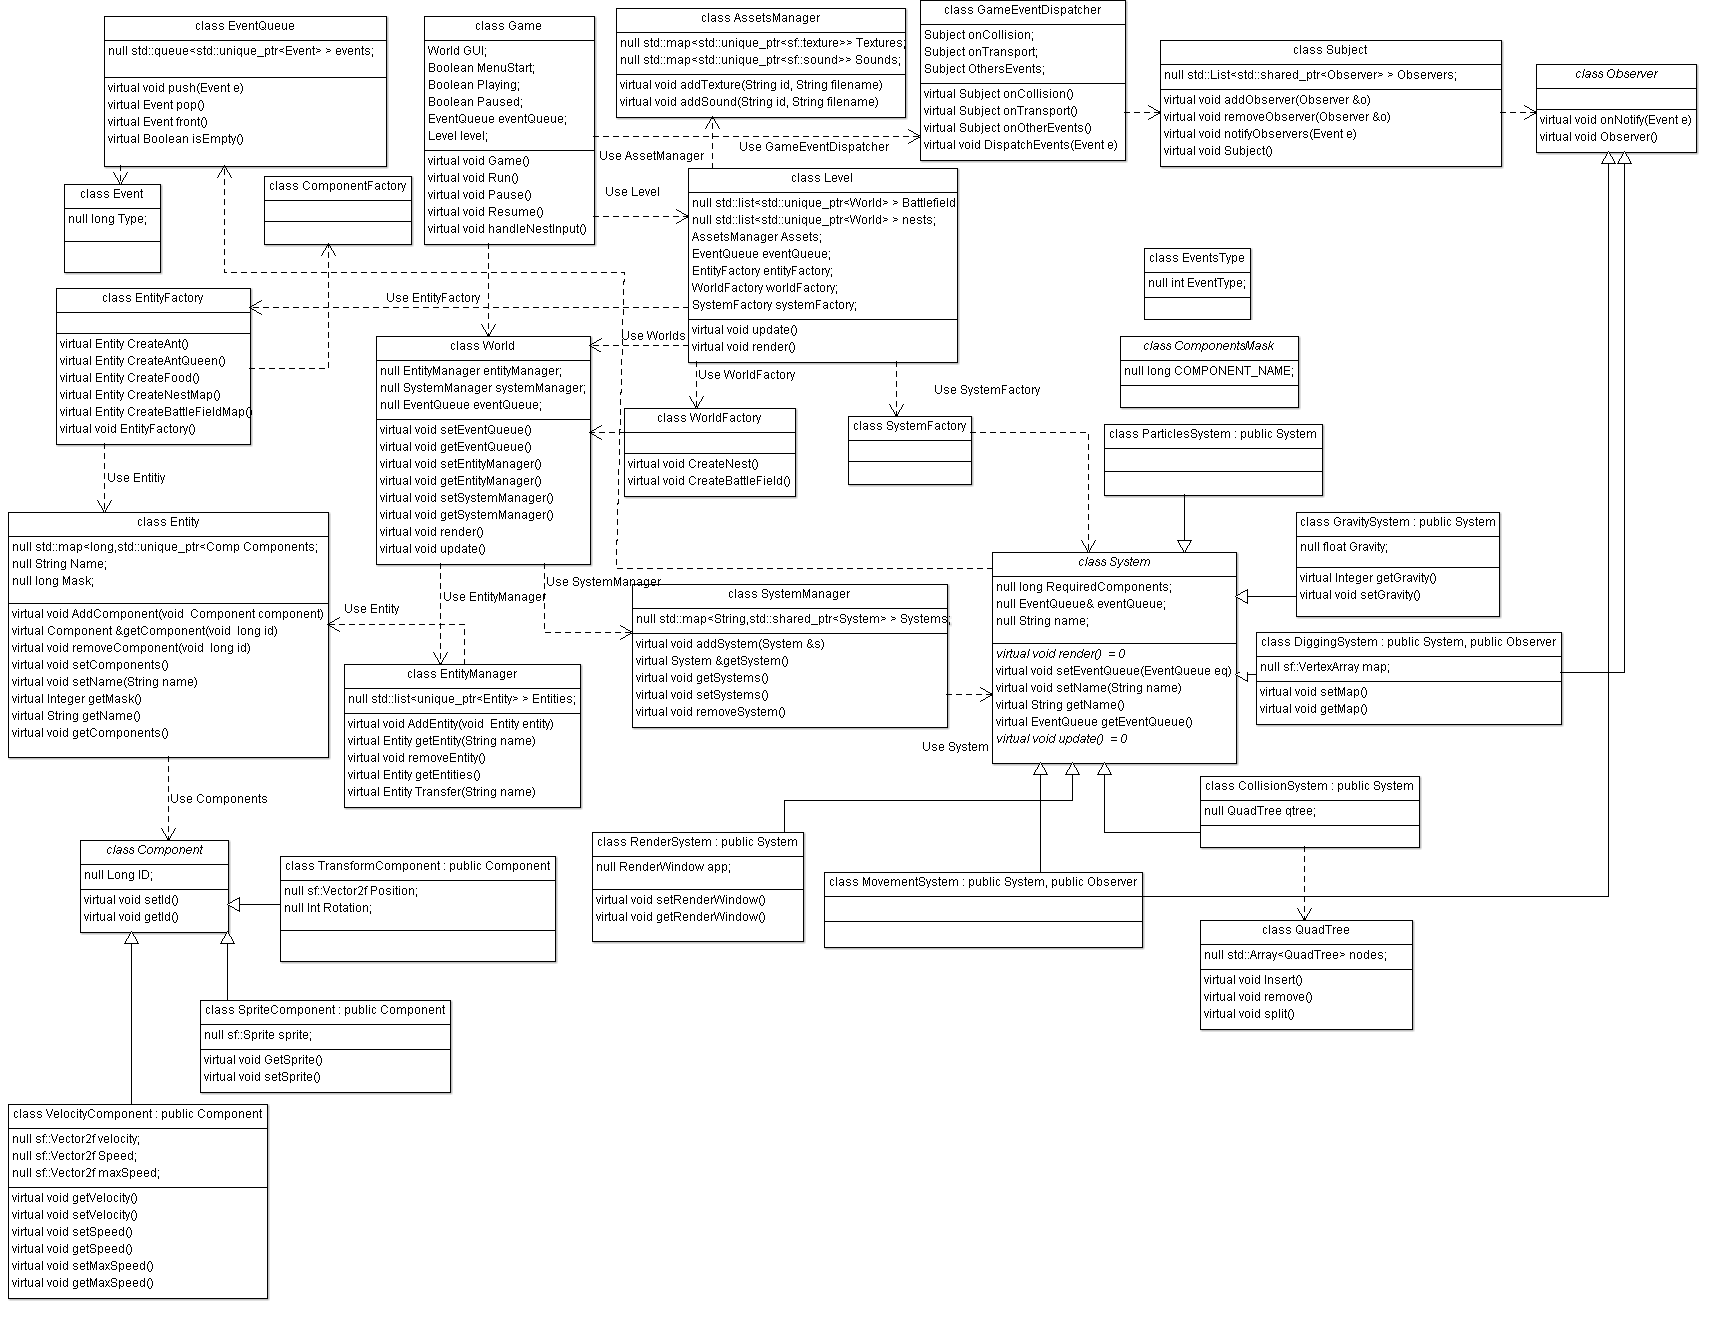
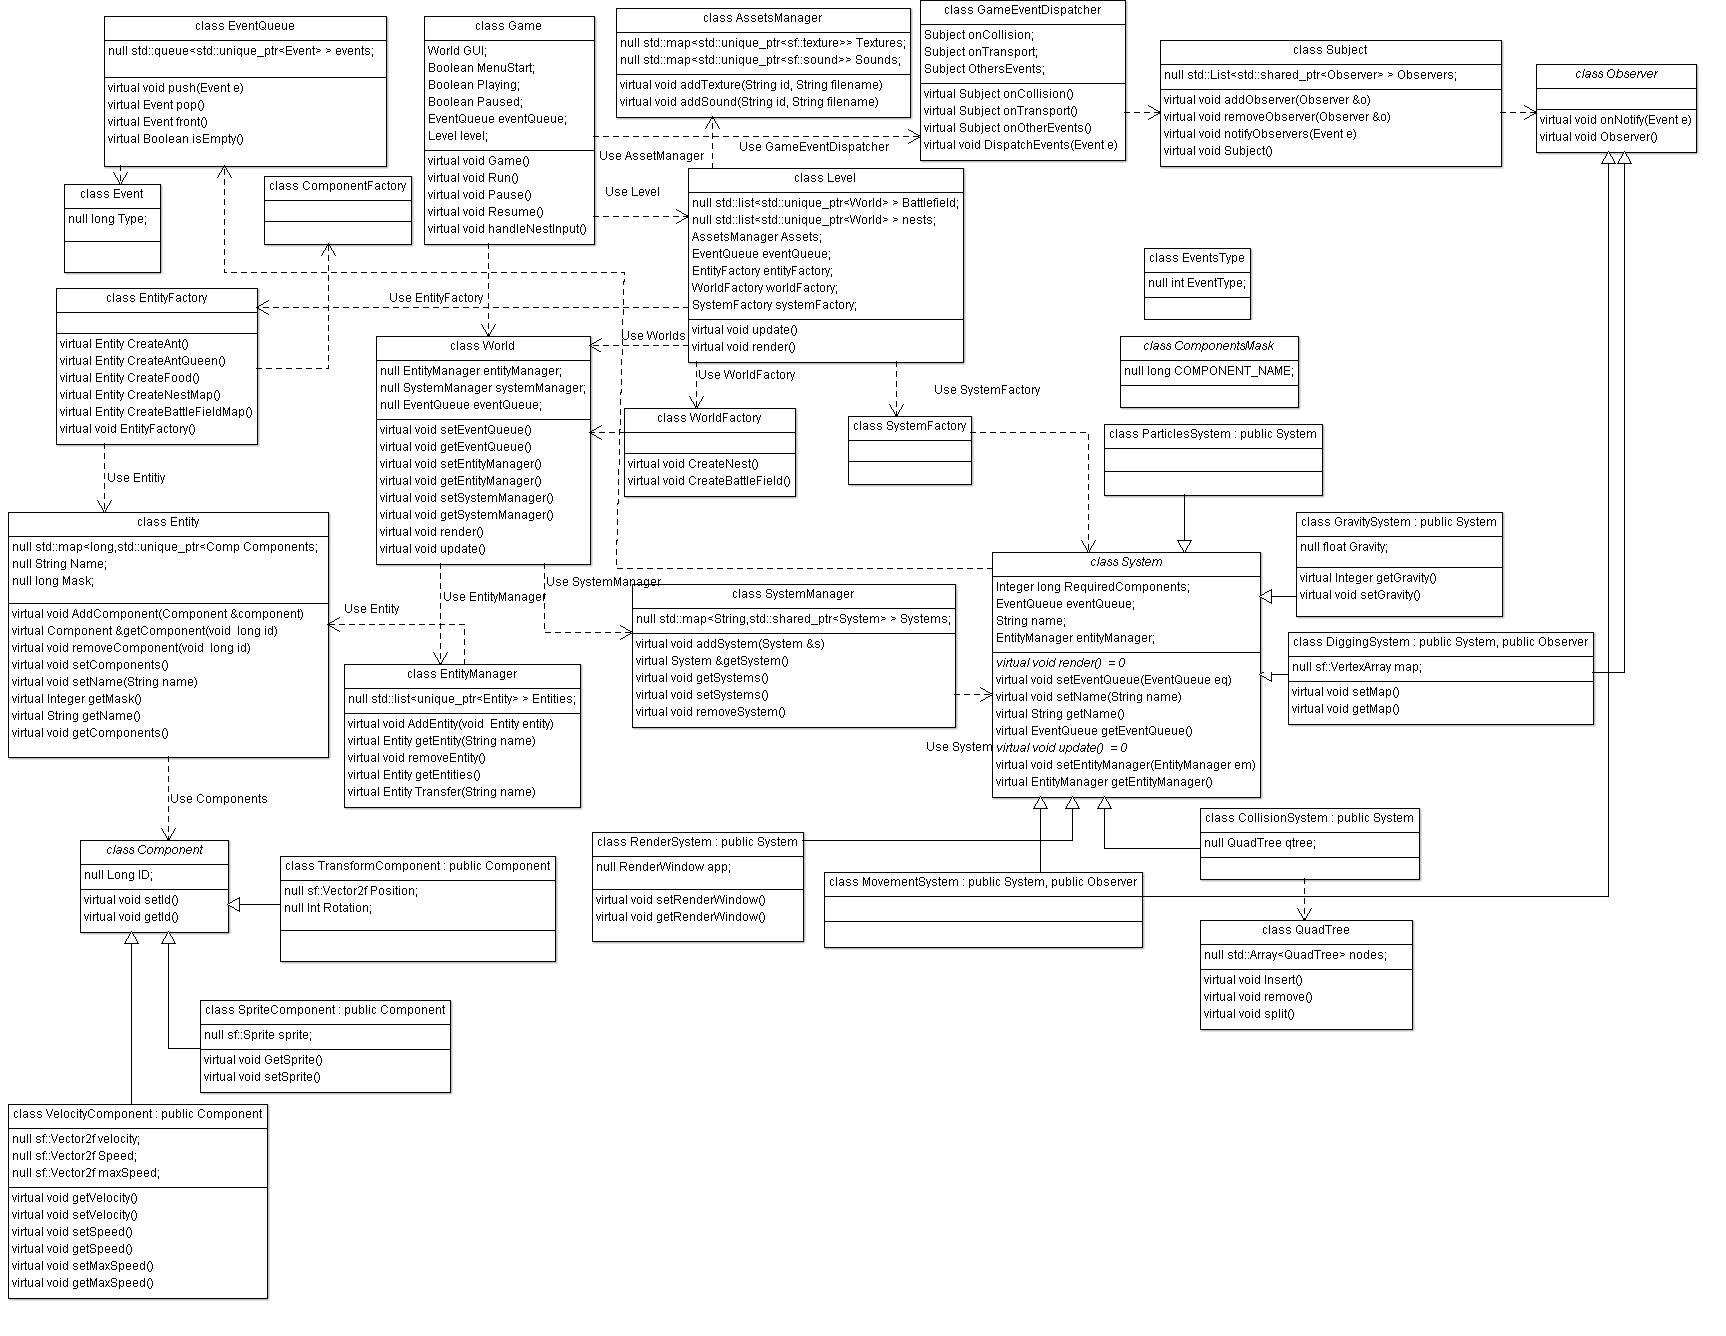
Cambiado cabeceras e implementacion.

diff --git a/src/Entity/Entity.cpp b/src/Entity/Entity.cpp
@@ -7,17 +7,17 @@ namespace ant{
         Entity::Entity(std::string name){
             this->name = name;
         }
-        Entity::Entity(std::string name,std::map<long,shared_ptr<Component> > components){
+        Entity::Entity(std::string name,std::map<long,std::unique_ptr<Component> > components){
             this->name = name;
             this->mask = 0;
             this->Components = components;
             for(auto& c: Components){
-                this->mask |= c.second.getId();
+                this->mask |= c.second->getId();
             }
         }
-        void Entity::addComponent(Component component){
-            this->mask |= component.getId();
-            this->Components.insert(std::pair<long,Component>(component.getId(),component));
+        void Entity::addComponent(std::unique_ptr<Component> component){
+            this->mask |= component->getId();
+            this->Components.insert(std::make_pair(component->getId(),std::move(component)));
         }
         void Entity::removeComponent(long mask){
             this->mask &= ~mask;
@@ -26,11 +26,11 @@ namespace ant{
         void Entity::setName(std::string name){
             this->name = name;
         }
-        void Entity::setComponents(std::map<long,Component> Components){
+        void Entity::setComponents(std::map<long,std::unique_ptr<Component> > Components){
             this->Components = Components;
             this->mask = 0;
             for(auto& c: Components){
-                this->mask |= c.second.getId();
+                this->mask |= c.second->getId();
             }
         }
         bool Entity::operator==(const Entity& e) const{

diff --git a/include/Entity/Entity.hpp b/include/Entity/Entity.hpp
@@ -1,25 +1,26 @@
 #ifndef ENTITY_H
 #define ENTITY_H
-#include "../Components/Component.hpp"
+#include <Components/Component.hpp>
 #include <string>
+#include <memory>
 #include <map>
 namespace ant{
     class Entity{
         private:
             std::string name;
             long int mask;
-            std::map<long,shared_ptr<Component> > Components;
+            std::map<long,std::unique_ptr<Component> > Components;
         public:
             Entity();
             Entity(std::string name);
-            Entity(std::string name,std::map<long,Component> Components);
-            void addComponent(Component component);
-            inline Component getComponent(long mask){ return Components.at(mask); }
+            Entity(std::string name,std::map<long,std::unique_ptr<Component> > Components);
+            void addComponent(std::unique_ptr<Component> component);
+            inline std::unique_ptr<Component>& getComponent(long mask){ return Components.at(mask); }
             void removeComponent(long mask);
             inline const std::string getName(){ return name; }
             void setName(std::string name);
-            void setComponents(std::map<long,Component> Components);
-            inline std::map<long,Component> getComponents(){ return Components; }
+            void setComponents(std::map<long,std::unique_ptr<Component> > Components);
+            inline std::map<long,std::unique_ptr<Component> >& getComponents(){ return Components; }
             inline long int const getMask(){ return mask; }
             bool operator==(const Entity& e) const;
             ~Entity();

diff --git a/include/EntityManager/EntityManager.hpp b/include/EntityManager/EntityManager.hpp
@@ -1,19 +1,20 @@
 #ifndef ENTITY_MANAGER_H
 #define ENTITY_MANAGER_H
 #include <Entity/Entity.hpp>
-#include <vector>
+#include <list>
 #include <algorithm>
+#include <memory>
 namespace ant{
     class EntityManager{
         private:
-            std::vector<Entity> entities;
+            std::list<std::unique_ptr<Entity> > entities;
         public:
             EntityManager();
             void addEntity(Entity e);
             void removeEntity(Entity e);
             Entity getEntity(std::string name);
-            void addEntities(std::vector<Entity> e);
-            inline std::vector<Entity> getEntities(){ return this->entities; }
+            void addEntities(std::list<std::unique_ptr<Entity> > e);
+            inline std::list<std::unique_ptr<Entity> > getEntities(){ return this->entities; }
             ~EntityManager();
     };
 };

diff --git a/include/Subject/Subject.hpp b/include/Subject/Subject.hpp
@@ -1,16 +1,16 @@
 #ifndef SUBJECT_H
 #define SUBJECT_H
-#include <vector>
+#include <list>
 #include <Observer/Observer.hpp>
 namespace ant{
     class Subject{
         private:
-            std::vector<Observer> Observers;
+            std::list<std::shared_ptr<Observer> > Observers;
         public:
             Subject();
-            void addObserver(Observer& o);
-            void removeObserver(Observer& o);
-            void notifyObservers(Event e);
+            void addObserver(std::shared_ptr<Observer> o);
+            void removeObserver(std::shared_ptr<Observer> o);
+            void notifyObservers(std::unique_ptr<Event> e);
             ~Subject();
     };
 }

diff --git a/include/EventQueue/EventQueue.hpp b/include/EventQueue/EventQueue.hpp
@@ -1,14 +1,15 @@
 #ifndef EVENT_QUEUE_H
 #define EVENT_QUEUE_H
 #include <queue>
+#include <memory>
 #include <Event/Event.hpp>
 namespace ant{
     class EventQueue{
         private:
-            std::queue<Event> eventQueue;
+            std::queue<std::unique_ptr<Event> > eventQueue;
         public:
             EventQueue();
-            void push(Event e);
+            void push(std::unique_ptr<Event> e);
             Event pop();
             Event front();
             inline bool isEmpty(){ return eventQueue.empty(); }

diff --git a/include/GameEventDispatcher/GameEventDispatcher.hpp b/include/GameEventDispatcher/GameEventDispatcher.hpp
@@ -17,7 +17,7 @@ namespace ant{
             GameEventDispatcher();
             inline Subject& OnCollision(){ return onCollision; }
             inline Subject& OnTransport(){ return onTransport; }
-            bool DispatchEvent(Event e);
+            bool DispatchEvent(std::unique_ptr<Event> e);
             ~GameEventDispatcher();
     };
 };
